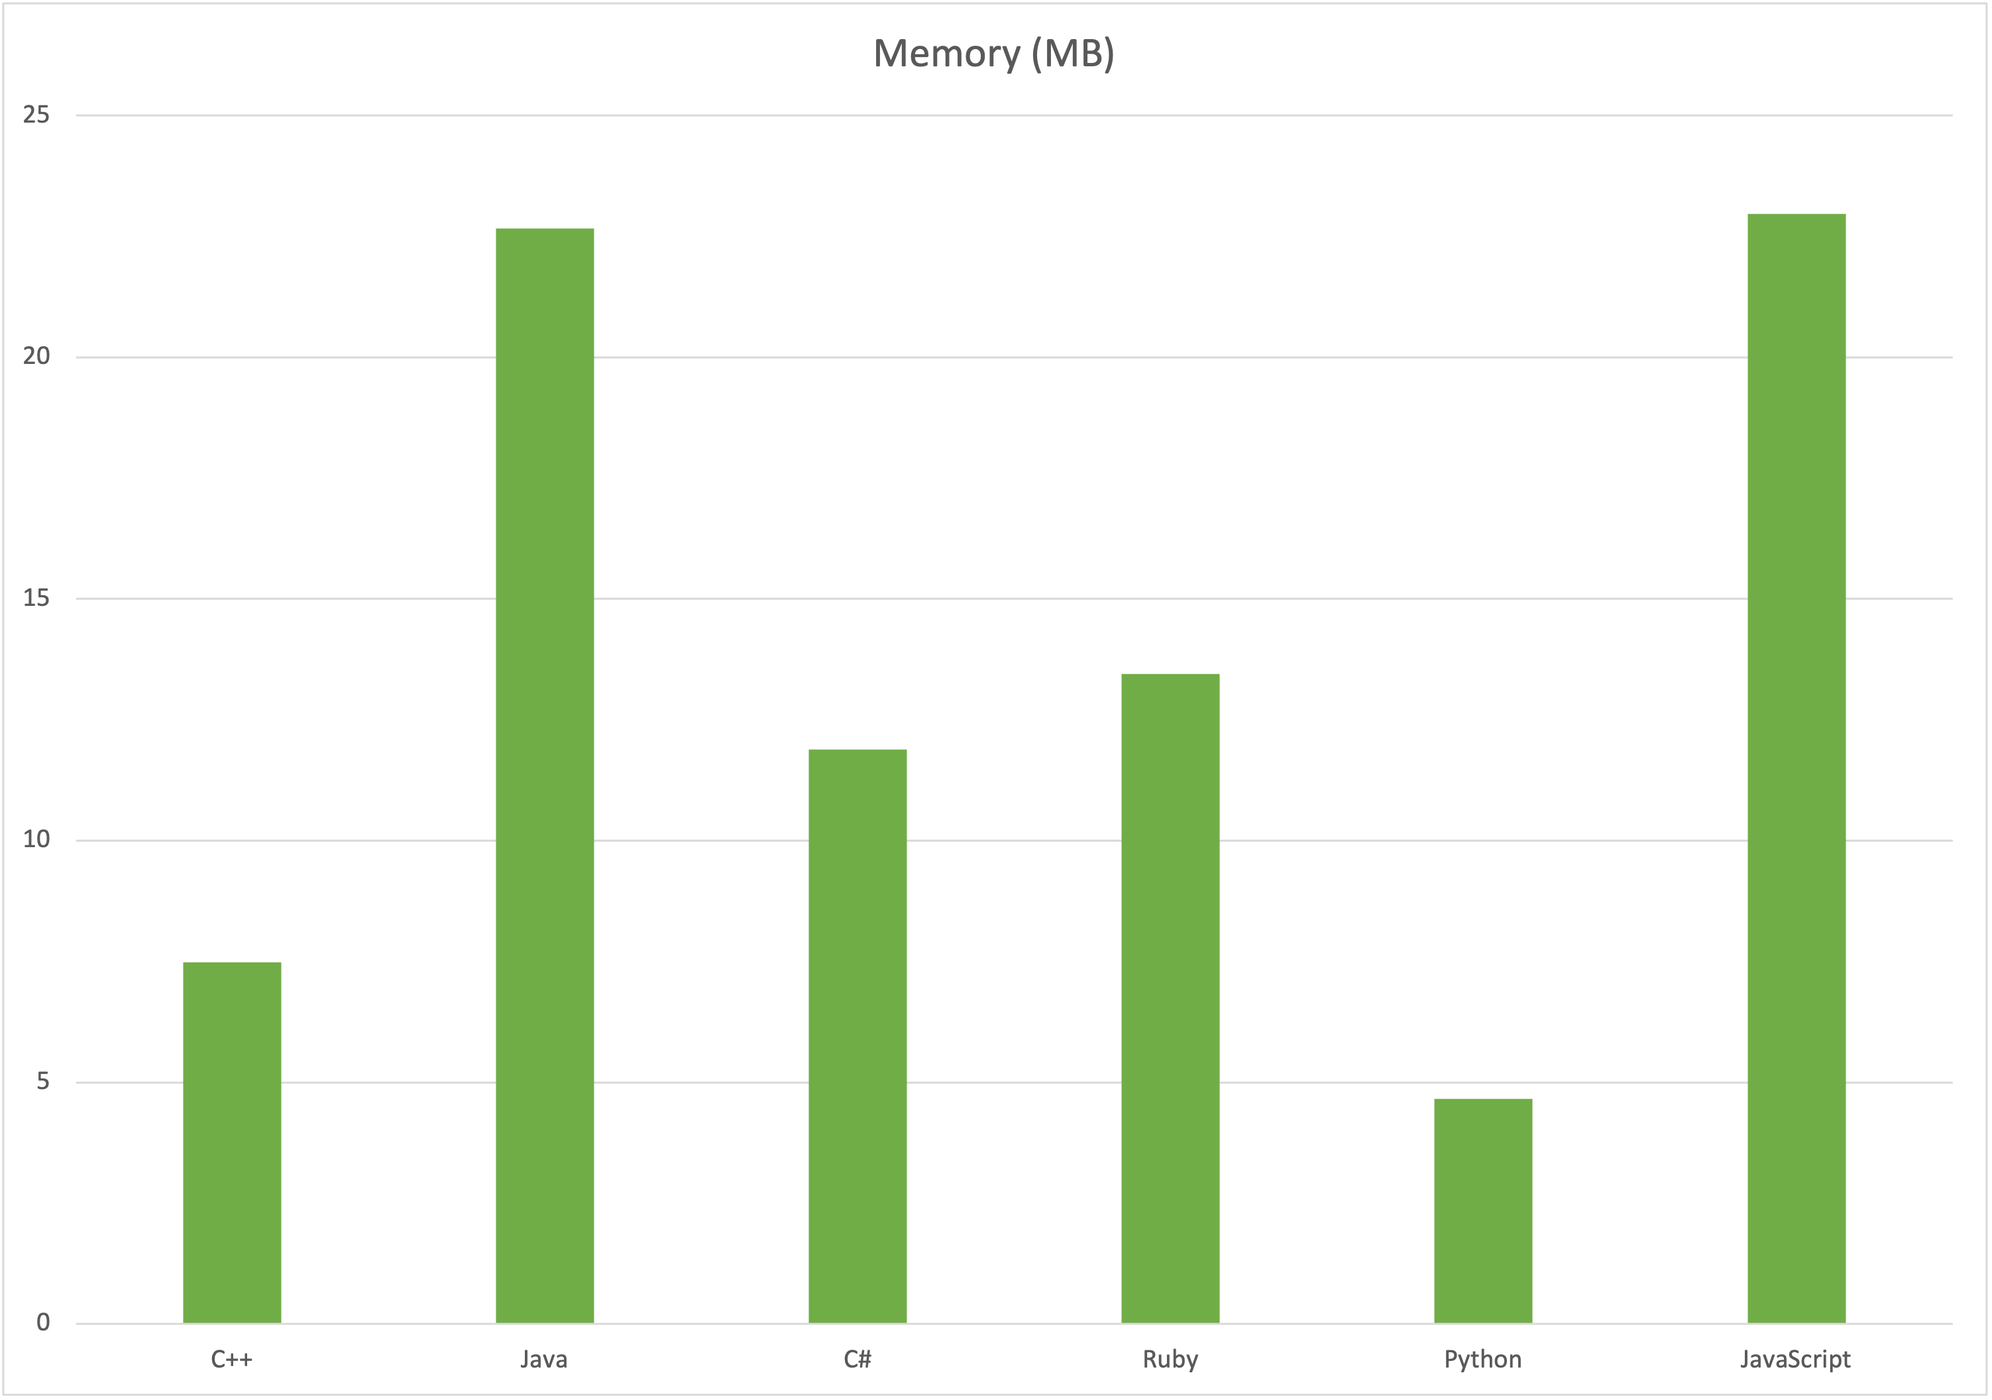
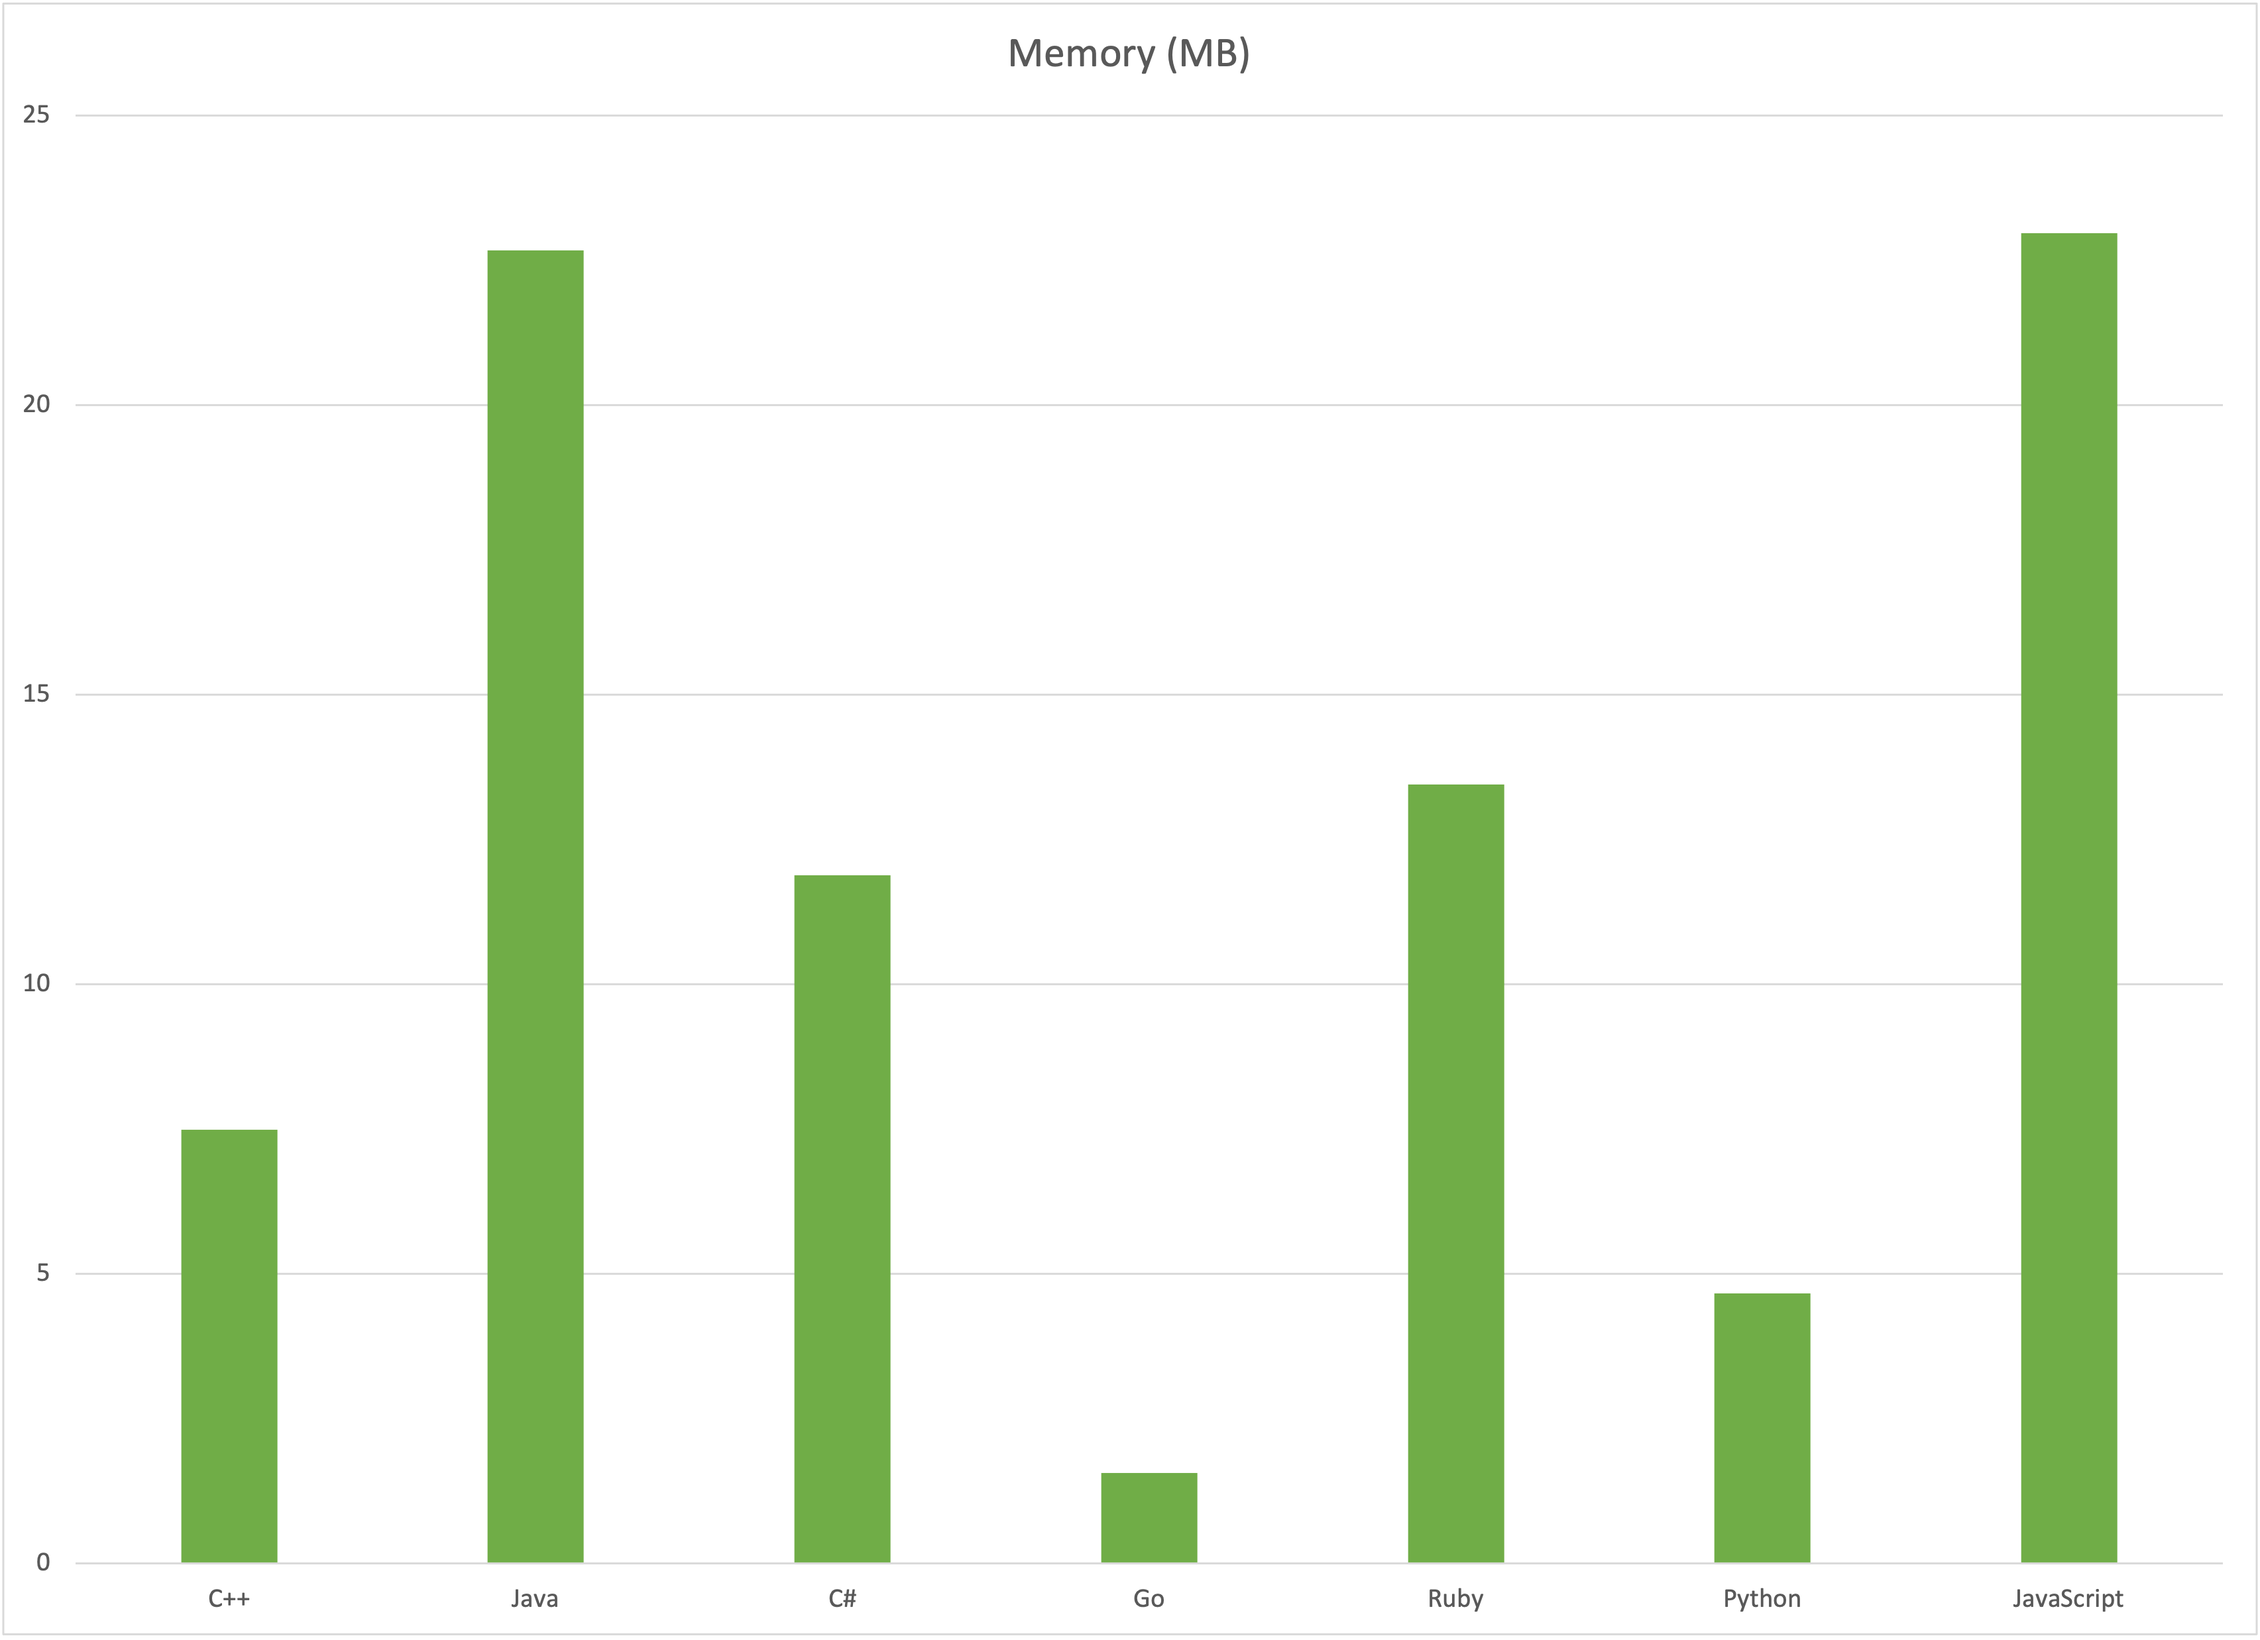
highlight go results

diff --git a/README.md b/README.md
@@ -80,7 +80,7 @@ Results breakdown:
 | Ruby        |       21.77           |    13.45    |
 | Python      |       17.89           |    4.66     |
 | JS (node)   |       0.873           |    22.97    |
-
+| Go          |       0.284           |    1.56     |
 
 Clearly, the way of optimization of this pure calculation logic in compiled versions as we see in static compiled languages outperformed the interperted languages (except `nodeJs`) drastically in terms of speed. Additionally, `Java` and `C#` results show the outstanding optimization made to the compiler and runtime `JVM`/`CLR` to perform nearly identical to the low level languages, for such essential looping computing. 
 
